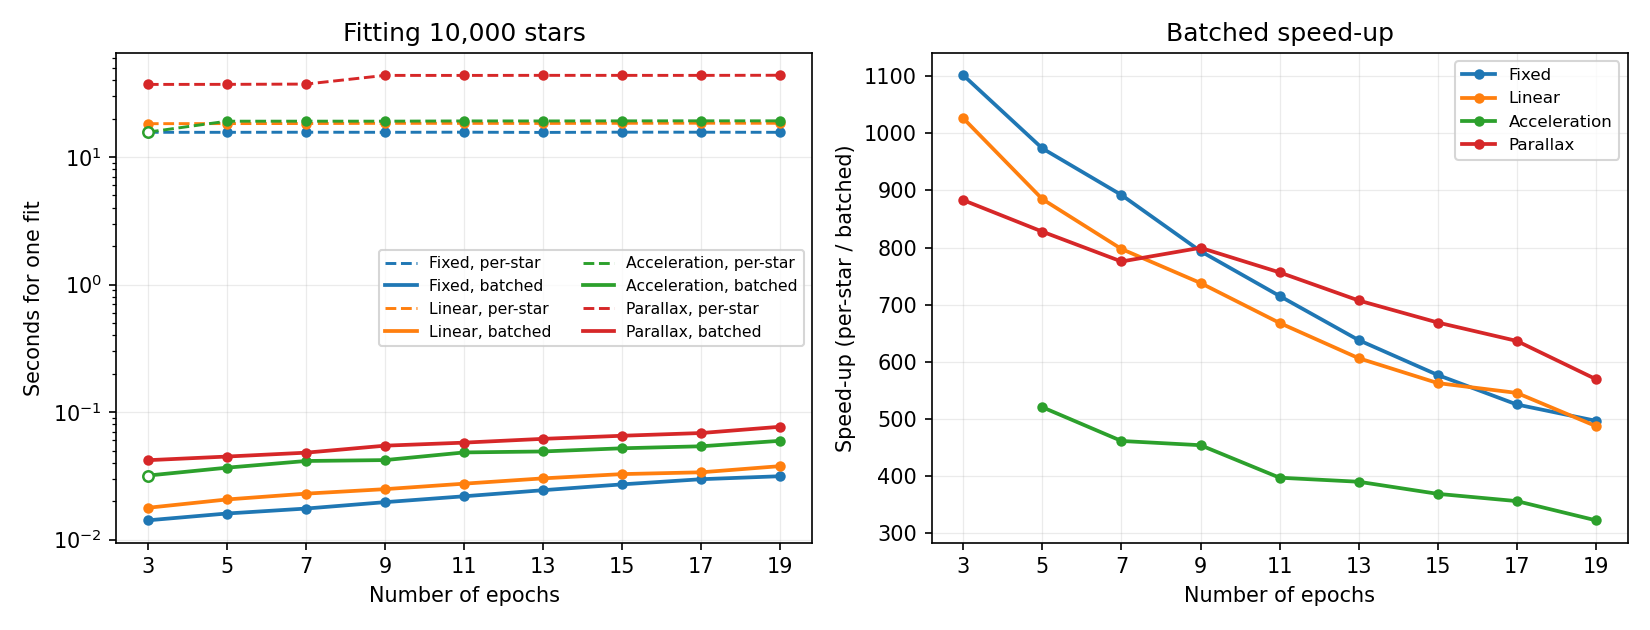
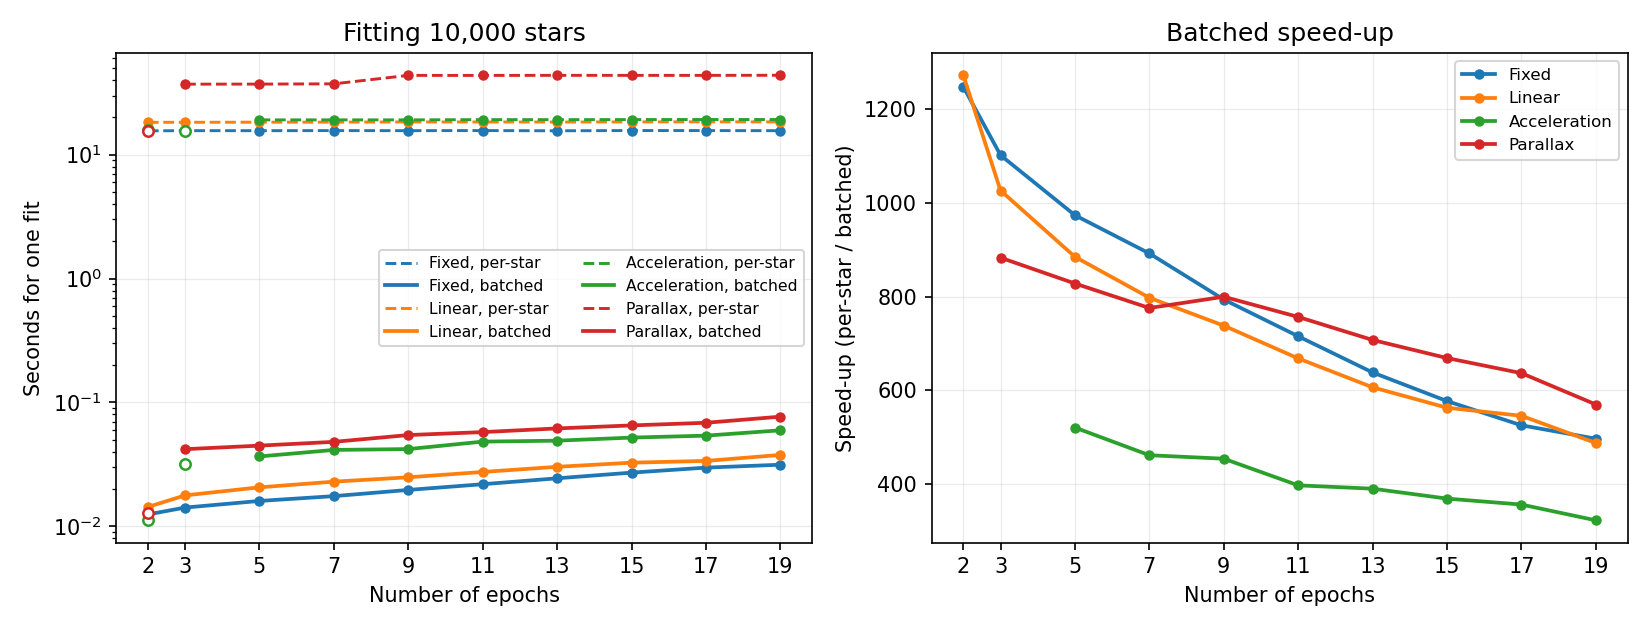
Put the 2-epoch case back in the timings, as the fallback boundary
It is the one column where the more complex models are not yet determined:
Acceleration (3 parameters per direction) and Parallax (5, fitted jointly) both
fall back to Fixed on both branches, so those two cells repeat the Fixed column
rather than timing what they are labelled. Keeping them shows where the
boundary is; the footnote and the hollow markers say what they are.

Three fixes that adding the column forced:

The harness recorded only whether the requested model was the one used, so
which model a fallback cell actually timed was guesswork. It now records that
too, and the footnote states it rather than inferring it.

The per-model warm-up ran at EPOCHS[0], which had just become 2 -- where
Parallax falls back to Fixed, warming the wrong path and leaving the one-time
set-up to land on a timed cell after all. It runs at the widest grid point now,
where every model is determined.

The figure joined fallback cells into the curve of a model they did not fit,
which read as Acceleration getting faster with fewer epochs when the cell was
really Fixed. Lines now break at those cells and the markers stay, hollow, so
nothing measured is hidden and nothing is drawn as something it isn't.

diff --git a/docs/benchmark_motion_models.py b/docs/benchmark_motion_models.py
@@ -31,7 +31,7 @@ import warnings
 import numpy as np
 
 N_STARS = 10_000
-EPOCHS = list(range(3, 21, 2))
+EPOCHS = [2] + list(range(3, 21, 2))
 MODELS = ['Fixed', 'Linear', 'Acceleration', 'Parallax']
 FIXED_PARAMS = {'ra': 18.0, 'dec': -30.0, 'pa': 0.0, 'obsLocation': 'earth'}
 
@@ -79,8 +79,12 @@ def time_one(branch, model, n_epochs, n_stars=N_STARS):
                                show_progress=False, verbose=False)
     elapsed = time.perf_counter() - t0
 
+    # Which model the stars actually got, not just whether it was the one
+    # asked for: too few epochs for the requested model and both branches
+    # quietly fall back, so a cell can time something other than its label.
     used = np.asarray(tab['motion_model_used']).astype(str)
-    return elapsed, float(np.mean(used == model))
+    names, counts = np.unique(used, return_counts=True)
+    return elapsed, float(np.mean(used == model)), str(names[counts.argmax()])
 
 
 def run_timings(flystar_dir, branch, out_json):
@@ -95,14 +99,19 @@ def run_timings(flystar_dir, branch, out_json):
     for model in MODELS:
         # One throwaway fit on a tiny table first. The first fit of a model in
         # a process pays a one-time set-up the rest do not -- ~0.03 s for
-        # Parallax, which is 40% of a batched 10,000-star fit and would land
-        # entirely on whichever cell happened to be timed first.
-        time_one(branch, model, EPOCHS[0], n_stars=50)
+        # Parallax, roughly two thirds of a whole batched 10,000-star fit,
+        # which would otherwise land entirely on whichever cell was timed
+        # first. At the widest grid point, so that the model being warmed up
+        # is one the star actually gets: at the narrow end there are fewer
+        # epochs than parameters and the fit falls back to a simpler model,
+        # warming the wrong path.
+        time_one(branch, model, max(EPOCHS), n_stars=50)
         for n_epochs in EPOCHS:
-            elapsed, frac = time_one(branch, model, n_epochs)
-            results[f'{model}|{n_epochs}'] = {'sec': elapsed, 'frac_used': frac}
+            elapsed, frac, used = time_one(branch, model, n_epochs)
+            results[f'{model}|{n_epochs}'] = {'sec': elapsed, 'frac_used': frac,
+                                              'used_model': used}
             print(f'  {model:13} {n_epochs:2d} epochs: {elapsed:8.3f}s '
-                  f'({frac*100:.0f}% got {model})', flush=True)
+                  f'({frac*100:.0f}% got {model}, most got {used})', flush=True)
 
     json.dump({'branch': branch, 'n_stars': N_STARS, 'results': results},
               open(out_json, 'w'), indent=1)
@@ -136,8 +145,13 @@ def plot(batched_json, per_star_json, out_png=None):
         same = ((series(per_star, model, 'frac_used') == 1)
                 & (series(batched, model, 'frac_used') == 1))
 
-        ax1.plot(EPOCHS, per, '--', color=c, lw=1.4, label=f'{model}, per-star')
-        ax1.plot(EPOCHS, bat, '-', color=c, lw=1.8, label=f'{model}, batched')
+        # Lines are drawn over the like-for-like cells only, so a fallback is
+        # not joined into the curve of a model it did not fit; the markers are
+        # still drawn, hollow, so no measurement is hidden.
+        ax1.plot(EPOCHS, np.where(same, per, np.nan), '--', color=c, lw=1.4,
+                 label=f'{model}, per-star')
+        ax1.plot(EPOCHS, np.where(same, bat, np.nan), '-', color=c, lw=1.8,
+                 label=f'{model}, batched')
         for y in (per, bat):
             ax1.plot(np.array(EPOCHS)[same], y[same], 'o', color=c, ms=4)
             ax1.plot(np.array(EPOCHS)[~same], y[~same], 'o', ms=5,

diff --git a/docs/motion_models.rst b/docs/motion_models.rst
@@ -520,16 +520,17 @@ predecessor branch, which fits star by star through
 :func:`scipy.optimize.curve_fit`; ``mm_rework_lingfeng`` is the batched
 implementation described above. Both were run on the same synthetic data in the
 same environment at default settings, one after the other rather than
-concurrently, so that they never competed for cores. The grid starts at three
-epochs because that is the fewest at which every model here has as many data
-points as parameters.
+concurrently, so that they never competed for cores. The grid is two epochs,
+then three to nineteen in steps of two: two is the fewest anything here can
+fit, and is kept because it is where the more complex models are not yet
+determined and fall back to a simpler one.
 
 .. image:: _static/motion_model_performance.png
 
 Solid lines are batched, dashed per-star; note the log scale on the left, where
-the two are three orders of magnitude apart. Hollow markers are the one cell
-where the two branches did not fit the same model, so no ratio is drawn for it
-in the right panel -- see the footnote below.
+the two are three orders of magnitude apart. Hollow markers are cells that did
+not fit the model of their column at all, so the lines break rather than run
+through them and the right panel draws no ratio for them -- see the footnote.
 
 .. list-table:: Seconds for one fit of 10,000 stars: batched / per-star (speed-up)
    :header-rows: 1
@@ -540,6 +541,11 @@ in the right panel -- see the footnote below.
      - ``Linear``
      - ``Acceleration``
      - ``Parallax``
+   * - 2
+     - 0.012 / 15.6 (1248x)
+     - 0.014 / 18.2 (1272x)
+     - 0.011 / 15.7 (not comparable) \*
+     - 0.013 / 15.6 (not comparable) \*
    * - 3
      - 0.014 / 15.6 (1102x)
      - 0.018 / 18.2 (1026x)
@@ -586,21 +592,25 @@ in the right panel -- see the footnote below.
      - 0.060 / 19.2 (322x)
      - 0.077 / 43.7 (570x)
 
-\* At three epochs ``Acceleration`` has exactly as many data points per
-direction as parameters. The batched branch fits it: with no degrees of
-freedom left the model passes exactly through the data, so there is no residual
-to estimate an uncertainty from and the parameter errors come back infinite.
-The predecessor instead requires strictly more epochs than parameters, and
-demotes those stars past ``Linear`` all the way to ``Fixed``. That cell
-therefore times ``Acceleration`` against ``Fixed`` rather than against itself,
-and a ratio of the two would not mean anything.
+\* Three cells do not time the model their column names. At two epochs neither
+``Acceleration`` (3 parameters per direction) nor ``Parallax`` (5, fitted
+jointly) has as many data points as parameters, so both branches fall back, to
+``Fixed`` on both sides, and those two cells simply repeat the ``Fixed``
+column. At three epochs ``Acceleration`` has exactly as many points
+per direction as parameters, and here the branches disagree: the batched one
+fits it, with no degrees of freedom left, so the model passes exactly through
+the data and there is no residual to estimate an uncertainty from -- the
+parameter errors come back infinite. The predecessor instead requires strictly
+more epochs than parameters, and demotes those stars past ``Linear`` all the
+way to ``Fixed``, so that cell would be timing ``Acceleration`` against
+``Fixed``.
 
 Two shapes stand out. The per-star branch is **flat in the number of epochs**
 and set almost entirely by the number of stars -- 10,000 Python-level optimizer
-calls cost the same whether each is handed 3 points or 19. The batched branch
-instead grows mildly with epochs, roughly doubling from 3 to 19, which is the
-only part of the work that is genuinely proportional to the amount of data.
-Between them the speed-up falls from about 1100x at three epochs to 320-570x at
+calls cost the same whether each is handed 2 points or 19. The batched branch
+instead grows mildly with epochs, roughly doubling across the grid, which is
+the only part of the work that is genuinely proportional to the amount of data.
+Between them the speed-up falls from about 1250x at two epochs to 320-570x at
 nineteen -- which is not the batched fit degrading, but the flat cost it is
 measured against staying flat while its own grows.
 
@@ -610,16 +620,16 @@ is: a 5x5 coupled ``Parallax`` solve lands within a factor of three of a
 one batched solve, and neither iterates.
 
 Three caveats on reading these numbers. Each cell is a single run on one
-machine, though a stable one: every per-star series here is flat to better
-than 1% across the whole grid. The one departure large enough to be real is
-per-star ``Parallax``, which steps up once between 7 and 9 epochs and is flat
-either side of it -- reproduced in three separate runs. Second, each model is
-given one throwaway fit on a tiny table before it is timed: the first fit of a
-model in a process pays a one-time set-up that the rest do not, about 0.03 s
-for ``Parallax``, which is most of a batched 10,000-star fit and would
-otherwise land entirely on whichever cell was timed first. Third, the
-comparison is of fitting only -- ``bootstrap`` is excluded throughout, as it is
-the one path still per-star and so is unaffected by any of this.
+machine, though a stable one: every per-star series holds to better than 1%
+across the whole grid, the single exception being ``Parallax``, which steps up
+once between 7 and 9 epochs and is flat either side of it -- in three separate
+runs, so that step is real. Second, each model is given one throwaway fit on a
+tiny table before it is timed: the first fit of a model in a process pays a
+one-time set-up that the rest do not, about 0.03 s for ``Parallax`` -- roughly
+two thirds of a whole batched 10,000-star fit -- which would otherwise land
+entirely on whichever cell was timed first. Third, the comparison is of fitting
+only: ``bootstrap`` is excluded throughout, as it is the one path still
+per-star and so is unaffected by any of this.
 
 How it was measured
 -------------------
